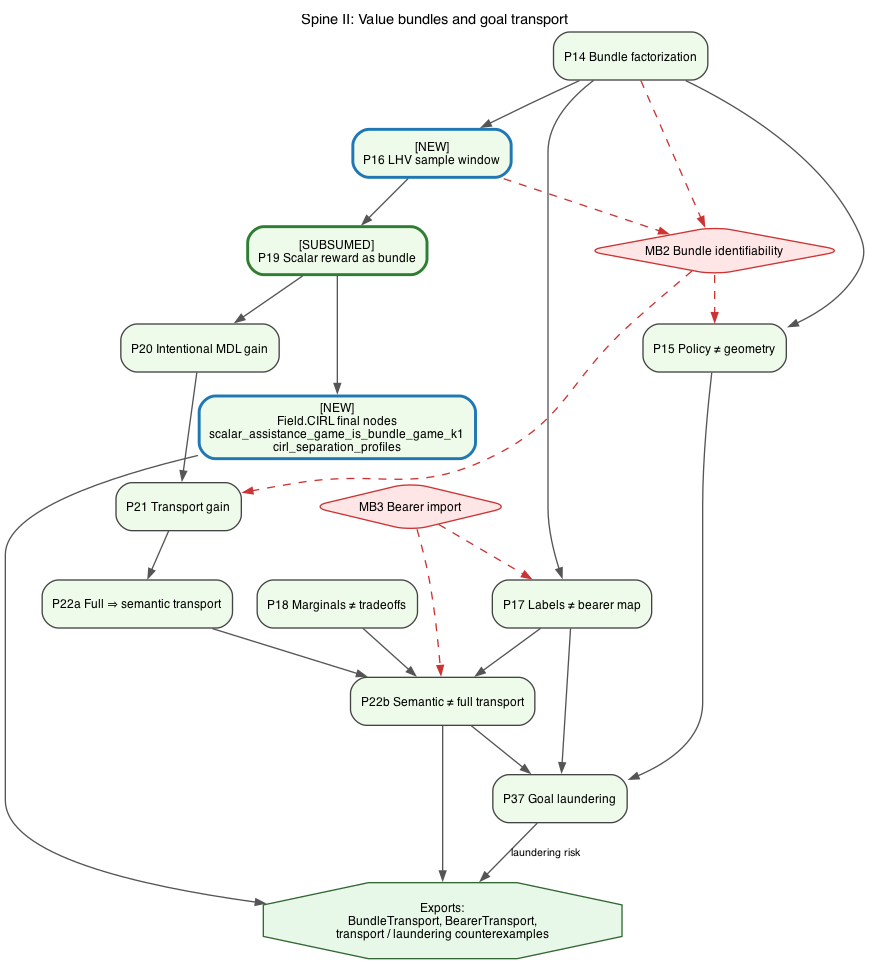
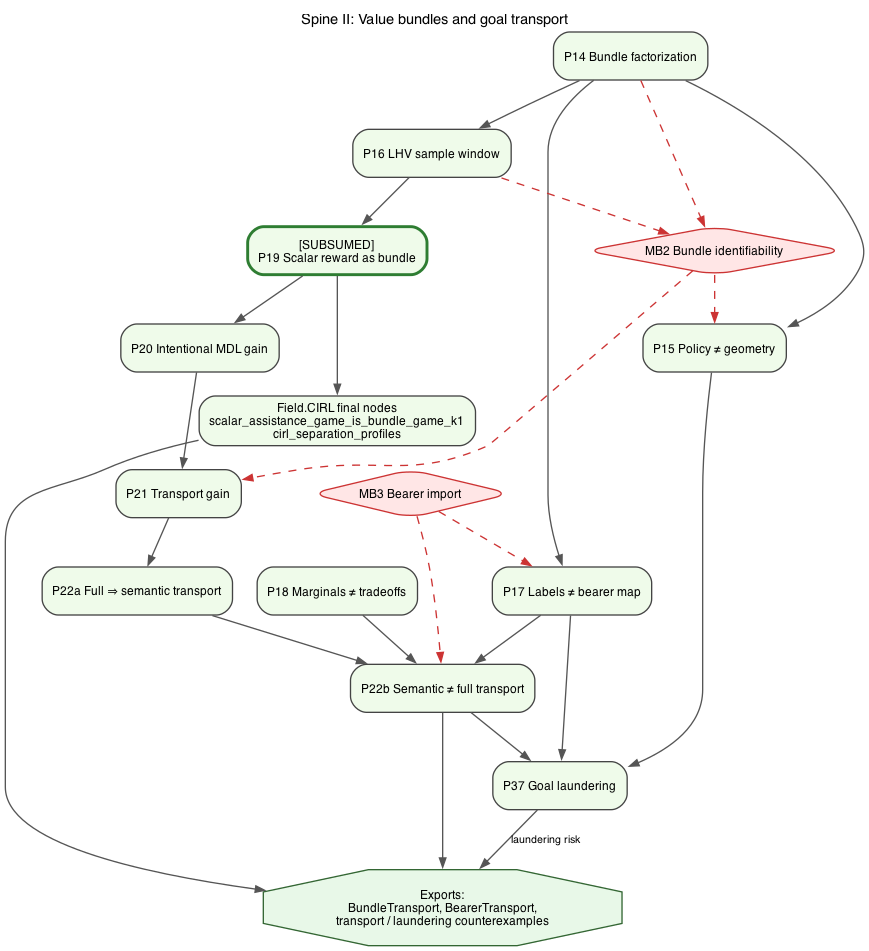
Remove [NEW] recency markers from Lean spine diagrams and Appendix I.
Ongoing manuscript and site work outpaces freshness tags; track changes via git and conversation logs instead, with AGENTS.md as the single policy home.

diff --git a/appendices/appG-lean-proof-spine.tex b/appendices/appG-lean-proof-spine.tex
@@ -677,7 +677,6 @@ Declared in \texttt{Certification.lean} (its statement needs \texttt{CertifiedSa
 This is the book's machine-checked conditional argument.
 Theorem identifiers match \texttt{formal/AlignmentProofSpine/*.lean}; the developer reference graph is \texttt{context/lean\_proof\_dependency\_graph.dot}.
 
-\providecommand{\spinenewbadge}{\begingroup\fboxsep=1pt\fcolorbox{blue!70!black}{blue!6}{\scriptsize\textsf{NEW}}\endgroup}
 \providecommand{\spinesubsumedbadge}{\begingroup\fboxsep=1pt\fcolorbox{green!45!black}{green!6}{\scriptsize\textsf{MAPPED}}\endgroup}
 \providecommand{\spineimportedbadge}{\begingroup\fboxsep=1pt\fcolorbox{orange!70!black}{orange!8}{\scriptsize\textsf{IMPORTED}}\endgroup}
 
@@ -685,7 +684,7 @@ The structure is shown in four sub-spine diagrams and an overview diagram compos
 
 \paragraph{Node shapes.}
 Rounded rectangles denote proved Lean nodes (\texttt{P05}, \texttt{P13}, \texttt{P30}, and so on).
-Diamonds denote bridge assumptions (\texttt{MB1}--\texttt{MB10}, including split \texttt{MB6a--b} and \texttt{MB7a--d} chains); \texttt{MB10}'s diamond is marked \texttt{[NEW]} in Spine III and sits off the \texttt{P30T} path.
+Diamonds denote bridge assumptions (\texttt{MB1}--\texttt{MB10}, including split \texttt{MB6a--b} and \texttt{MB7a--d} chains); \texttt{MB10}'s dashed diamond sits off the \texttt{P30T} path.
 Solid octagons mark \emph{export} summaries; dashed octagons mark \emph{imports} from other sub-spines.
 The overview uses a double octagon for \texttt{P30T}.
 
@@ -699,7 +698,7 @@ Light grey: certification assembly.
 Pale red diamonds: bridge assumptions.
 
 \paragraph{Status markers.}
-\spinenewbadge{} recent literature-crosswalk nodes; \spinesubsumedbadge{} projection/embeddings; \spineimportedbadge{} source-cited field handles (Part~I).
+\spinesubsumedbadge{} projection/embeddings; \spineimportedbadge{} source-cited field handles (Part~I).
 Solid grey arrows are proved steps; dashed red arrows are bridge assumptions.
 
 \subsection{Overview and certification assembly}
@@ -1213,7 +1212,7 @@ This is Theorem~\ref{appi:thm:p22b} read through the tiling aliases in \texttt{B
   \centering
   \includegraphics[width=\textwidth]{figures/lean_proof/03-correction-successors.png}
   \caption[Spine III: correction and successors]{Spine III: handle-controlled correction, risk, and successors (Chapters~\ref{ch:correction-causal-channel}--\ref{ch:certification-without-construction}).
-  Covers the correction channel, shutdown and interruptibility as narrow projections, impact/quantilization/debate/amplification/ELK separations, weak-corrigibility separations, \texttt{CCI}-based risk bound \texttt{P13}, successor invariant chains, syntactic-tiling/import-preservation separation, and completion of the core hidden-BIQ \texttt{MB7} chain at \texttt{MB7c}; inferential detector validity is now the adjacent \texttt{MB7d} bridge. The \texttt{[NEW]} nodes are the Chapters~\ref{ch:grow-split-merge}/\ref{ch:conserved-properties} forgeability gap (\texttt{forgeability\_gap}, a finite counterexample) and the bridge that would close it, \texttt{MB10} (Section~\ref{appi:sec:forgeability}); \texttt{MB10} is not part of \texttt{Core.BridgeAssumptions} and does not feed \texttt{P30T}.}
+  Covers the correction channel, shutdown and interruptibility as narrow projections, impact/quantilization/debate/amplification/ELK separations, weak-corrigibility separations, \texttt{CCI}-based risk bound \texttt{P13}, successor invariant chains, syntactic-tiling/import-preservation separation, and completion of the core hidden-BIQ \texttt{MB7} chain at \texttt{MB7c}; inferential detector validity is now the adjacent \texttt{MB7d} bridge. The Chapters~\ref{ch:grow-split-merge}/\ref{ch:conserved-properties} forgeability gap (\texttt{forgeability\_gap}, a finite counterexample) and the bridge that would close it, \texttt{MB10} (Section~\ref{appi:sec:forgeability}), sit off the main \texttt{P30T} path; \texttt{MB10} is not part of \texttt{Core.BridgeAssumptions}.}
   \label{fig:lean-spine-correction}
 \end{figure}
 

diff --git a/drafts/conversation-summaries/2026-07-19-remove-new-recency-markers.md b/drafts/conversation-summaries/2026-07-19-remove-new-recency-markers.md
@@ -1,0 +1,26 @@
+# 2026-07-19 — Remove [NEW] recency markers
+
+## Trigger
+User asked to remove recently added `[NEW]` tags and surrounding explanatory text from manuscript/diagram sources, and to add project instructions against recency markers (with exceptions).
+
+## Done
+- Stripped `[NEW]` labels and blue highlight styling from Lean proof DOT sources (`context/lean_proof_dependency_graph.dot`, `context/lean_proof_graphs/01–04`).
+- Regenerated `figures/lean_proof/*.png` and `context/lean_proof_dependency_graph.png`.
+- Appendix I (`appendices/appG-lean-proof-spine.tex`): removed `\spinenewbadge`, legend/caption `[NEW]` prose; kept substantive MB10 / forgeability-gap description.
+- Added **No recency markers** rule to `AGENTS.md` only (single canonical home).
+
+## Decisions
+- Left `[SUBSUMED]` / `MAPPED` badges and `[SUBSUMED]` DOT labels unchanged — user scoped removal to `[NEW]` only.
+- Historical conversation logs mentioning `[NEW]` were not edited.
+- Policy lives only in `AGENTS.md` §No recency markers (user rejected redundant copies in `INSTRUCTIONS.md` and `formal/README.md`).
+
+## Open / next
+- None.
+
+## Key paths
+- `AGENTS.md` (§No recency markers)
+- `appendices/appG-lean-proof-spine.tex`
+- `context/lean_proof_graphs/`
+
+## Commits
+- (none — user did not request commit)

diff --git a/drafts/conversation-summaries/INDEX.md b/drafts/conversation-summaries/INDEX.md
@@ -4,6 +4,9 @@ Most recent first.
 
 | Date | Topic | Log |
 |------|-------|-----|
+| 2026-07-19 | **PLAN IA-1** draft — in-situ LLM / R-MB7 annex (not v5; ET-1 parallel) | [2026-07-19-plan-ia1-in-situ-llm-annex.md](2026-07-19-plan-ia1-in-situ-llm-annex.md) |
+| 2026-07-19 | **Remove [NEW] recency markers** — DOT/Appendix I cleanup; AGENTS/INSTRUCTIONS policy | [2026-07-19-remove-new-recency-markers.md](2026-07-19-remove-new-recency-markers.md) |
+| 2026-07-19 | **ET-1 implementation** — adapter, passive-UAD scorer, tests (ET1-1/2) | [2026-07-19-et1-orbit-external-transfer-freeze.md](2026-07-19-et1-orbit-external-transfer-freeze.md) |
 | 2026-07-19 | **ET-1 Orbit external transfer freeze** — ET1-0 pre-registration, pinned fixtures, not v5 | [2026-07-19-et1-orbit-external-transfer-freeze.md](2026-07-19-et1-orbit-external-transfer-freeze.md) |
 | 2026-07-19 | **Bibliography hallucination audit** — GSAI, Orseau UAI, Kuhn Substack; removed `variationalagent2025` | [2026-07-19-bibliography-hallucination-audit.md](2026-07-19-bibliography-hallucination-audit.md) |
 | 2026-07-19 | **Site bot orientation + search index** — llms.txt sync, mobile search fix, `/search-index.json` for bots | [2026-07-19-site-bot-orientation-search-index.md](2026-07-19-site-bot-orientation-search-index.md) |

diff --git a/AGENTS.md b/AGENTS.md
@@ -47,6 +47,12 @@ Every changed line should trace directly to the user's request.
 
 - **Ask before expanding scope.** Open files, roadmap order, and untracked drafts are not instructions. On “commit” or “end of session,” stage only what this task authorized; mention other drafts in the log and ask.
 
+### No recency markers
+
+Do not add `[NEW]`, “new in this session,” freshness badges, or similar recency tags to manuscript text, the companion site, Lean proof diagrams, or other reader-facing artifacts. The book and site change too fast for such markers to stay accurate; use git history and `drafts/conversation-summaries/` for change tracking instead.
+
+**Exceptions:** only when the user explicitly requests a time-bounded marker (e.g. a one-off release note, external snapshot, or workshop handout with a stated cutoff date). Remove or refresh those markers in the same pass that supersedes them.
+
 ### Goal-driven execution
 
 **Define success criteria. Loop until verified.**
